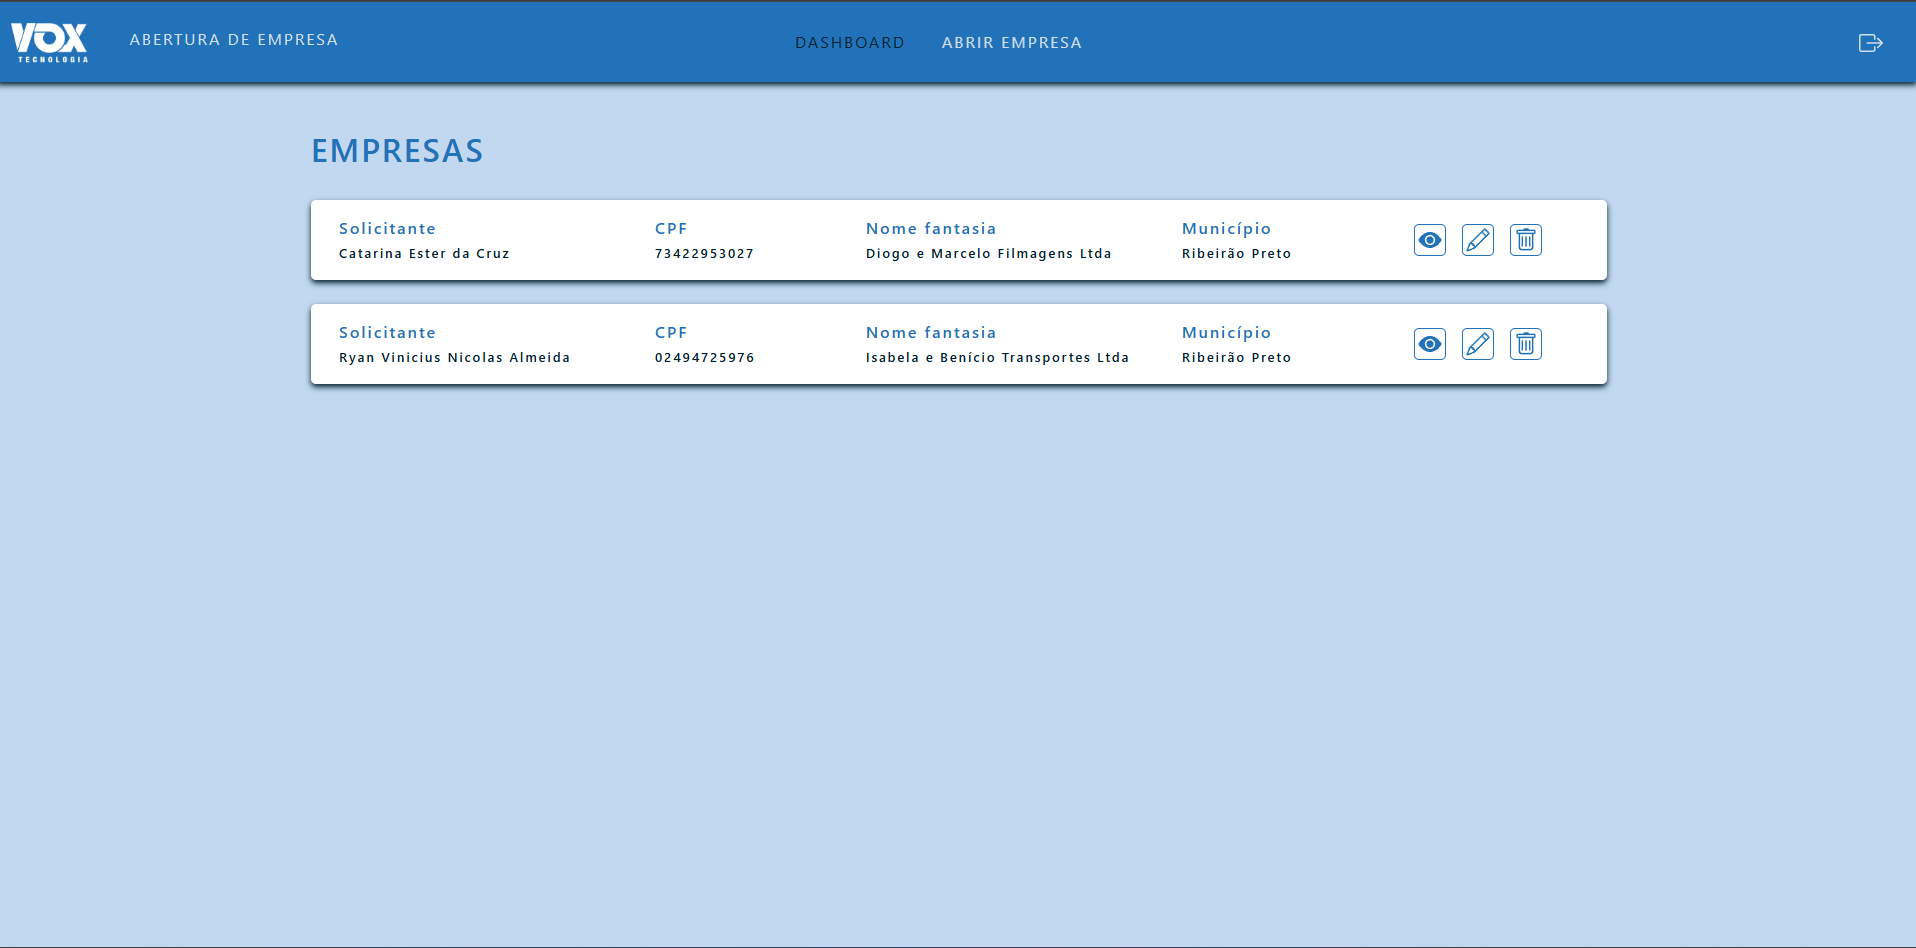
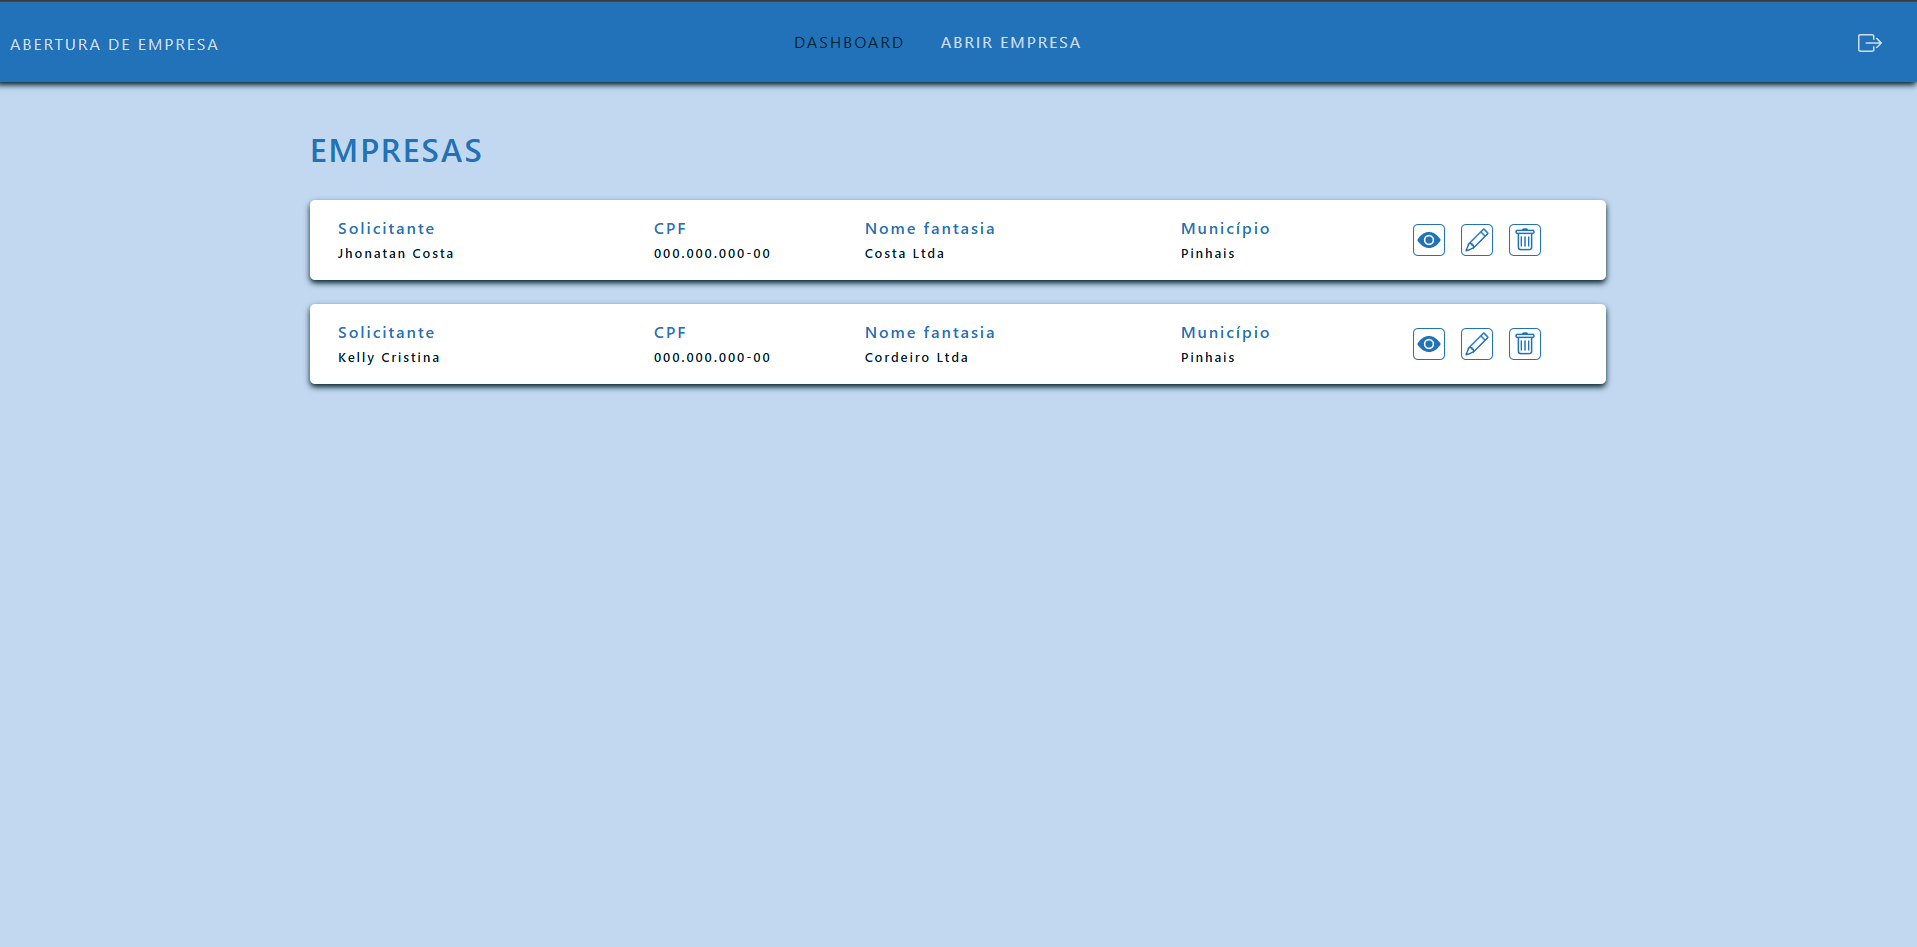
fix(app): change some files

diff --git a/src/app/components/nav/nav.component.html b/src/app/components/nav/nav.component.html
@@ -6,10 +6,6 @@
 
       <div class="col-sm-3 navbar-brand">
         <div class="row" [routerLink]="['/dashboard']">
-          <div class="col-sm-3">
-            <img src="assets/img/logo/vox-white-logo.png" alt="Logo" class="d-inline-block align-text-top">
-          </div>
-
           <div class="col-sm">
             <span>ABERTURA DE EMPRESA</span>
           </div>

diff --git a/src/index.html b/src/index.html
@@ -5,7 +5,7 @@
   <title>Abertura De Empresa</title>
   <base href="/">
   <meta name="viewport" content="width=device-width, initial-scale=1">
-  <link rel="icon" type="image/png" href="assets/icon/vox-icon.png"/>
+  <link rel="icon" type="image/x-icon" href="assets/icon/app-icon.svg">
 </head>
 <body>
   <app-root></app-root>

diff --git a/src/app/views/auth/cadastro/cadastro.component.html b/src/app/views/auth/cadastro/cadastro.component.html
@@ -6,7 +6,6 @@
       <div class="form-container">
 
         <div class="form-logo-container">
-          <img src="assets/img/logo/vox-blue-logo.png" alt="main-logo"/>
           <h1>CADASTRO</h1>
         </div>
 

diff --git a/src/app/views/auth/login/login.component.html b/src/app/views/auth/login/login.component.html
@@ -6,7 +6,6 @@
       <div class="form-container">
 
         <div class="form-logo-container">
-          <img src="assets/img/logo/vox-blue-logo.png" alt="main-logo"/>
           <h1>LOGIN</h1>
         </div>
 
